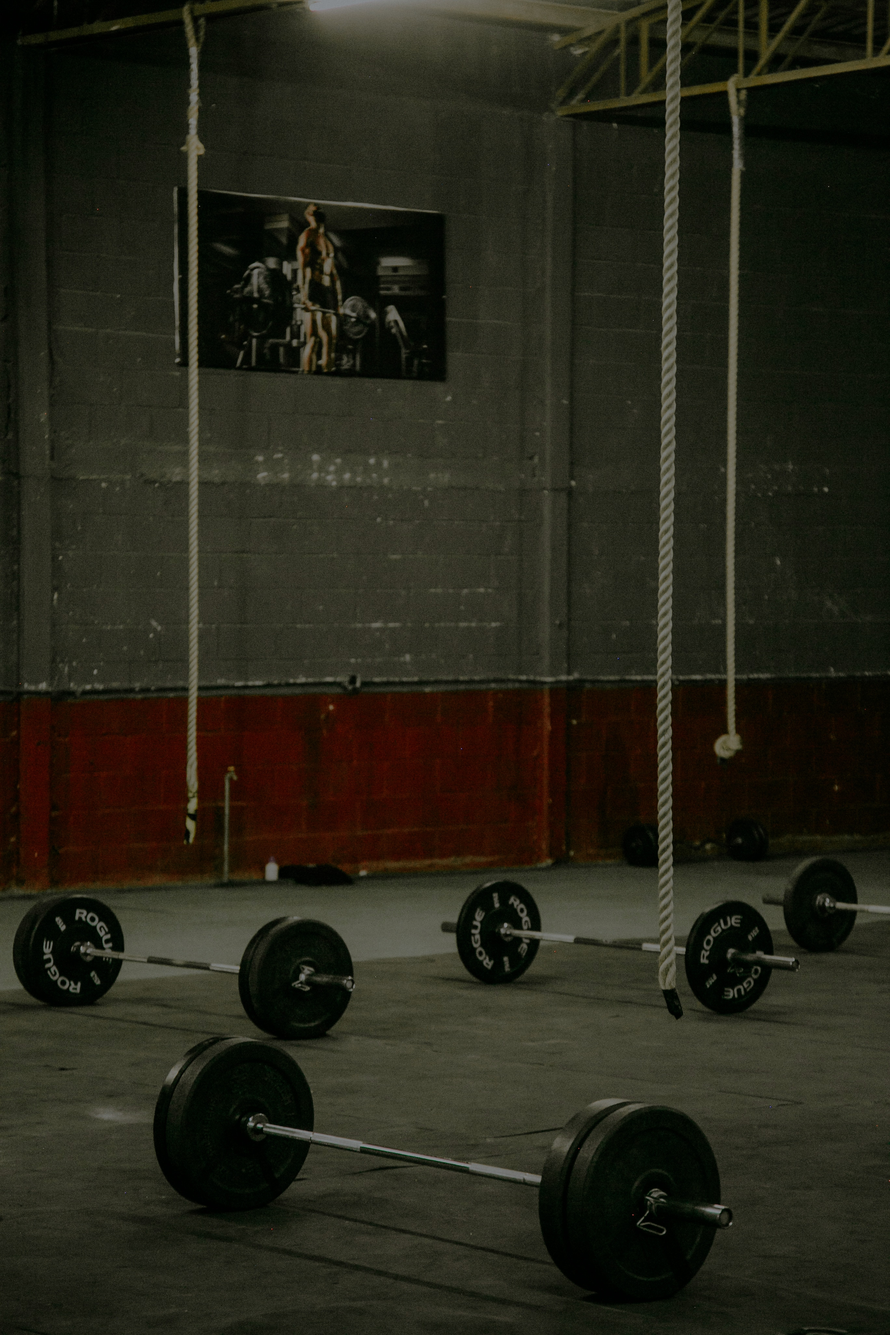
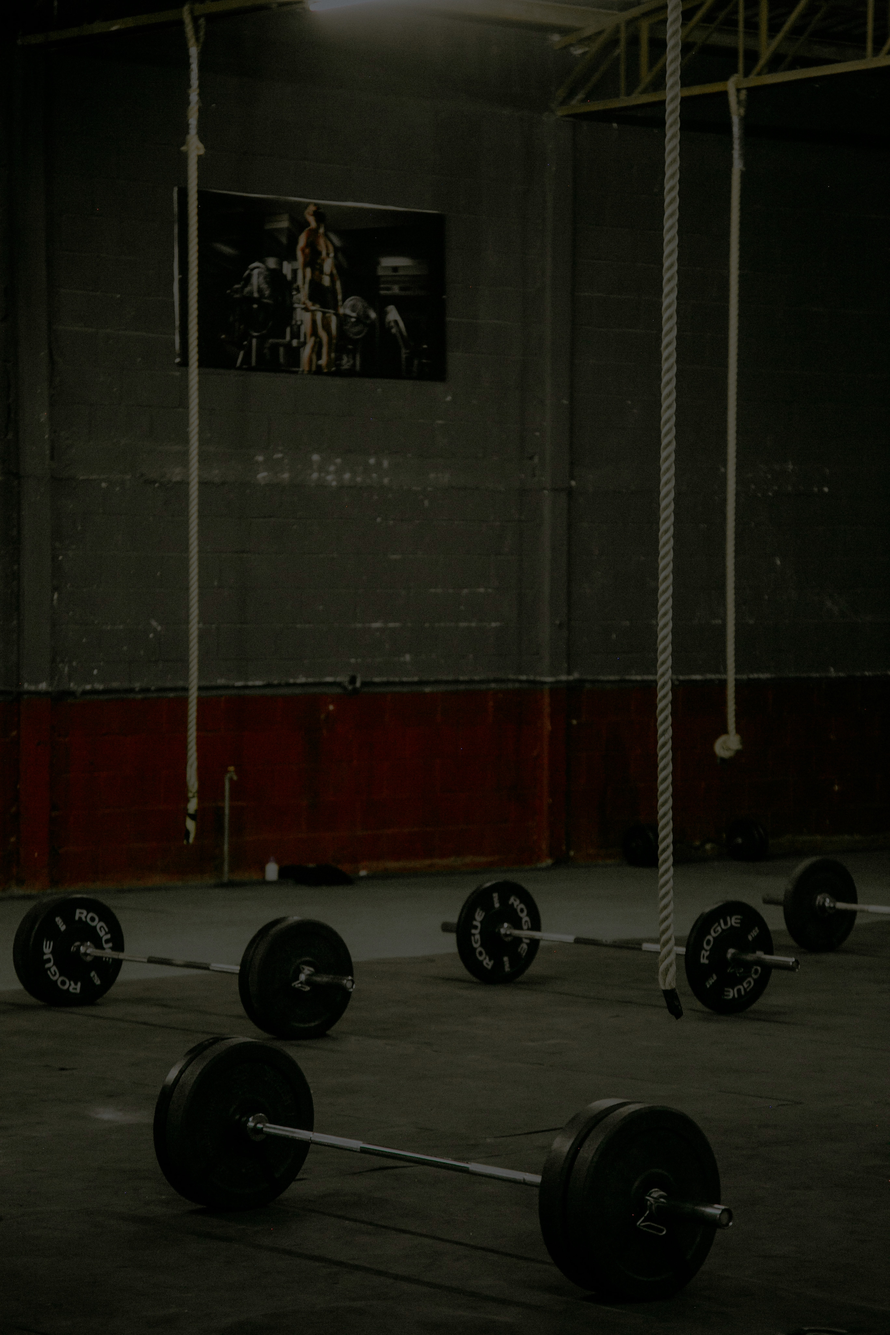
changed background

diff --git a/style/indexStyle.css b/style/indexStyle.css
@@ -85,8 +85,8 @@ section li{
 }
 
 section:nth-of-type(3){
-    background: url("../assets/muscuBackground2.jpg") no-repeat;
-    background-size: auto;
+    background: url("../assets/muscuBackground.jpg") no-repeat;
+    background-size: cover;
     background-position: center 0;
     background-attachment: fixed;
     display: flex;
@@ -96,8 +96,8 @@ section:nth-of-type(3){
 
 section:nth-of-type(5){
     background: url("../assets/nutrition.jpeg") no-repeat;
-    background-size: auto;
-    background-position: right 0;
+    background-size: cover;
+    background-position: center 0;
     background-attachment: fixed;
     display: flex;
     flex-direction: column;
